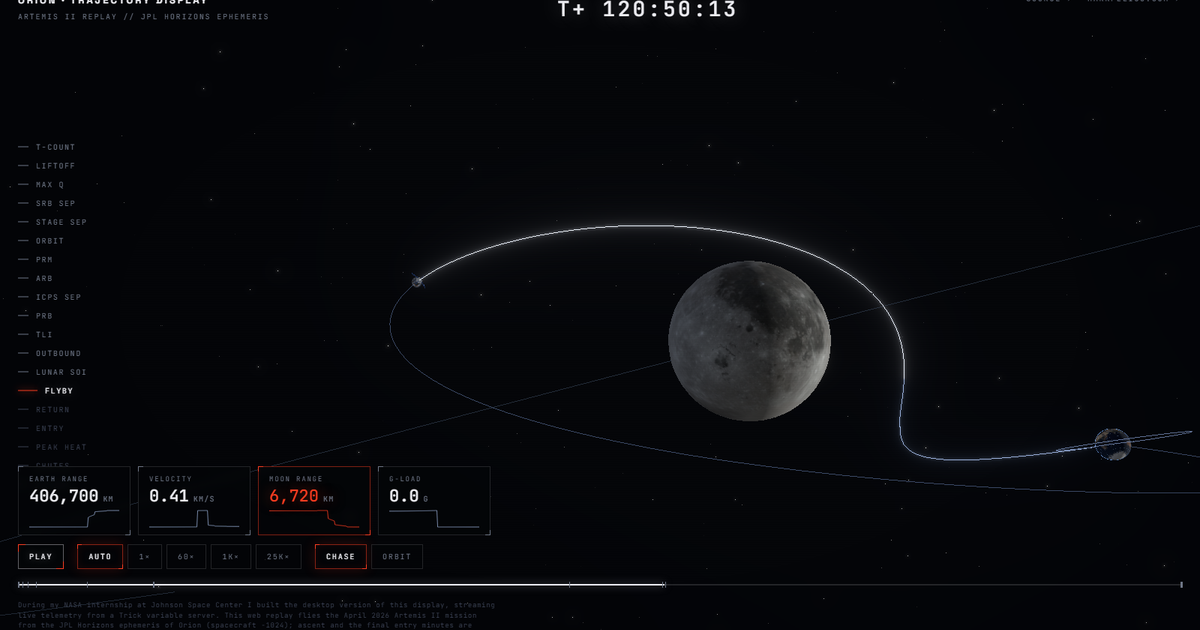
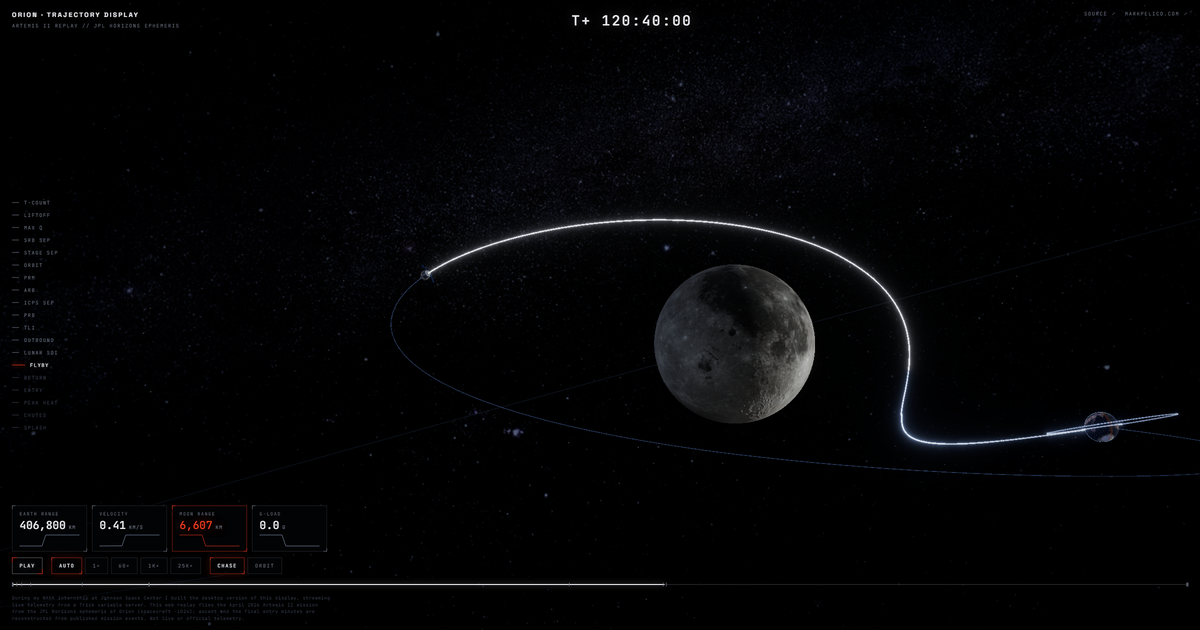
Share card from the upgraded flyby, poster fallback, tight terminator rim
- public/og.png regenerated from a 2400x1260 capture of the flyby with the
  fat trajectory, Moon relief and Milky Way; public/poster.jpg (1600x900
  q70) captured alongside via scripts/make-share-card.mjs.
- The dynamic-import loading state and a noscript line now show the poster
  full-bleed with a caption, so no-JS / no-WebGL visitors see the mission
  instead of a spinner (the fallback is server-rendered into the HTML).
- Terminator warm band narrowed to a rim hugging the lit edge — the first
  cut veiled half the twilight hemisphere in rust from low orbit — and the
  night-lights ramp pulled off the day side.

diff --git a/app/page.js b/app/page.js
@@ -3,12 +3,27 @@
 import dynamic from "next/dynamic";
 
 // The whole experience is client-only: WebGL canvas, requestAnimationFrame
-// clock, and window-level media queries have no server render.
+// clock, and window-level media queries have no server render. While the
+// flight software loads — and for no-JS / no-WebGL visitors, forever — the
+// stage shows the flown flyby as a full-bleed poster instead of a spinner.
 const OrionExperience = dynamic(() => import("@/components/OrionExperience"), {
   ssr: false,
   loading: () => (
     <main className="stage stage-loading">
-      <span className="boot-line">LOADING FLIGHT SOFTWARE…</span>
+      {/* eslint-disable-next-line @next/next/no-img-element -- next/image
+          needs client JS; this poster must paint for no-JS visitors too. */}
+      <img
+        className="stage-poster"
+        src="/poster.jpg"
+        alt="Artemis II lunar flyby: the flown trajectory arcing past the Moon, Earth in the far field"
+      />
+      <div className="stage-poster-scrim" aria-hidden="true" />
+      <span className="boot-line stage-loading-line">LOADING FLIGHT SOFTWARE…</span>
+      <noscript>
+        <span className="boot-line stage-loading-line">
+          JAVASCRIPT IS OFF — SHOWING THE FLOWN ARTEMIS II FLYBY FROM THE JPL EPHEMERIS.
+        </span>
+      </noscript>
     </main>
   ),
 });

diff --git a/components/Scene.jsx b/components/Scene.jsx
@@ -132,11 +132,15 @@ function Earth() {
           [
             "#include <emissivemap_fragment>",
             "float sunDot = dot(normalize(vEarthNormal), uSunDir);",
-            "float nightK = smoothstep(0.09, -0.18, sunDot);",
+            "float nightK = smoothstep(0.02, -0.14, sunDot);",
             "vec3 nightLights = texture2D(uNightMap, vMapUv).rgb;",
             "totalEmissiveRadiance += nightLights * nightK * 1.3;",
-            "float termK = 1.0 - smoothstep(0.0, 0.24, abs(sunDot));",
-            "totalEmissiveRadiance += vec3(1.0, 0.38, 0.12) * termK * termK * 0.05;",
+            // Narrow warm rim hugging the lit edge of the terminator. Keep it
+            // tight: with the camera near the terminator (the dusk launch),
+            // sunDot varies slowly across the disc and any generous band
+            // veils half the planet in rust.
+            "float termK = 1.0 - smoothstep(0.0, 0.045, abs(sunDot - 0.015));",
+            "totalEmissiveRadiance += vec3(1.0, 0.36, 0.10) * termK * termK * 0.028;",
           ].join("\n")
         );
     };

diff --git a/app/globals.css b/app/globals.css
@@ -37,9 +37,35 @@ body {
 .stage-loading {
   display: grid;
   place-items: center;
+  align-content: center;
+  gap: 10px;
   color: var(--dim);
   font-size: 12px;
   letter-spacing: 0.2em;
+}
+
+/* Poster fallback: the flown flyby, full bleed, under the loading line —
+   what no-WebGL and reduced-power visitors get instead of a spinner. */
+.stage-poster {
+  position: absolute;
+  inset: 0;
+  width: 100%;
+  height: 100%;
+  object-fit: cover;
+}
+
+.stage-poster-scrim {
+  position: absolute;
+  inset: 0;
+  background: radial-gradient(ellipse at center, rgba(4, 5, 8, 0.1) 40%, rgba(4, 5, 8, 0.55) 100%);
+}
+
+.stage-loading-line {
+  position: relative;
+  z-index: 1;
+  text-shadow: 0 0 14px rgba(4, 5, 8, 0.95), 0 1px 2px rgba(4, 5, 8, 0.9);
+  text-align: center;
+  padding: 0 16px;
 }
 
 .scanlines {
